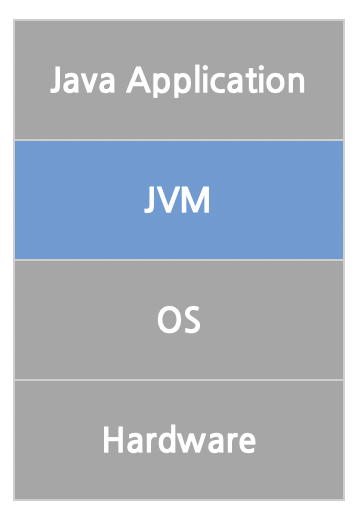
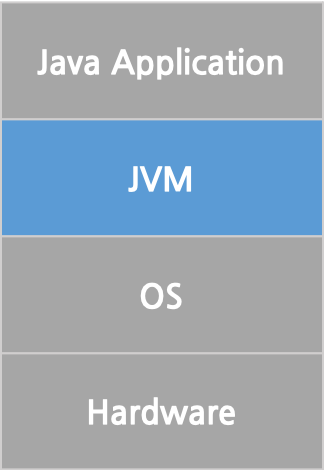
Update Java란..?

diff --git a/Java/01.md b/Java/01.md
@@ -1,4 +1,4 @@
-# 자바란?
+# Java 는 무엇인가
 
 Java 를 제대로 공부해본 적은 처음이다. 대학교 3학년 시절 안드로이드 어플을 만들기 위해서 교수님이 Head First Java를 참조하여 만들어 주신 강의자료를 본게 전부이다.
 물론 C++ 을 잘 알고 있었기 때문에 기본적인 문법을 익히는 방법은 어렵지 않았다.
@@ -38,12 +38,20 @@ Java는 JVM 위에서 실행되기 때문에 운영체제와 의존성이 없다
 
 JVM 은 Java 애플리케이션이 실행되는 Virtual Machine 이다. 이 JVM 덕분에 자바는 운영체제 독립적이라는 특성을 갖게 된다. 이는 애플리케이션이 실행될 때, OS 위에 JVM이라는 Layer가 하나 생기는 것과 동일하다고 보면 된다.
 
-![JVM](./Images/JVM_01.png)
+<center><img src="./Images/JVM_01.png" width="130" height="200">
+<br>
+<b>Java Application 실행 환경</b>
+</center>
 
-<Java Application 실행 환경>
+<br>
 
 ## Java 애플리케이션이 작성되고 실행되는 과정
 
 자바 프로그램(.java)을 작성하고 이를 자바 컴파일러가 Byte code(.class) 로 변환시킨다. 이를 자바 인터프리터가 하드웨어가 식별 할 수 있도록 변경해서 실행시켜준다.
 
-(이것도 한번 그림을 그려서 넣어보자)
+<center><img src="./Images/Java_compile.png" width="450" height="150">
+<br>
+<b>Java 실행 과정</b>
+</center>
+
+자바의 정말 기초를 살펴 봤는데.. 사실 이미 어느정도 컴퓨터공학 관련 지식이 있는 상태여서 이해를 했지만 처음 학습하는 사람은 무슨말인지 하나도 이해하지 못할 것 같다. 실행 환경이 어떠한 것이든 가장 기본이지만 어려운 부분 인 것 같다.

diff --git a/Java/README.md b/Java/README.md
@@ -4,3 +4,4 @@
 기억한 내용이 틀려도 괜찮다.
 다시 학습하고 틀린 내용을 수정하도록 한다.
 
+1. [Java란 무엇인가](01.md)
